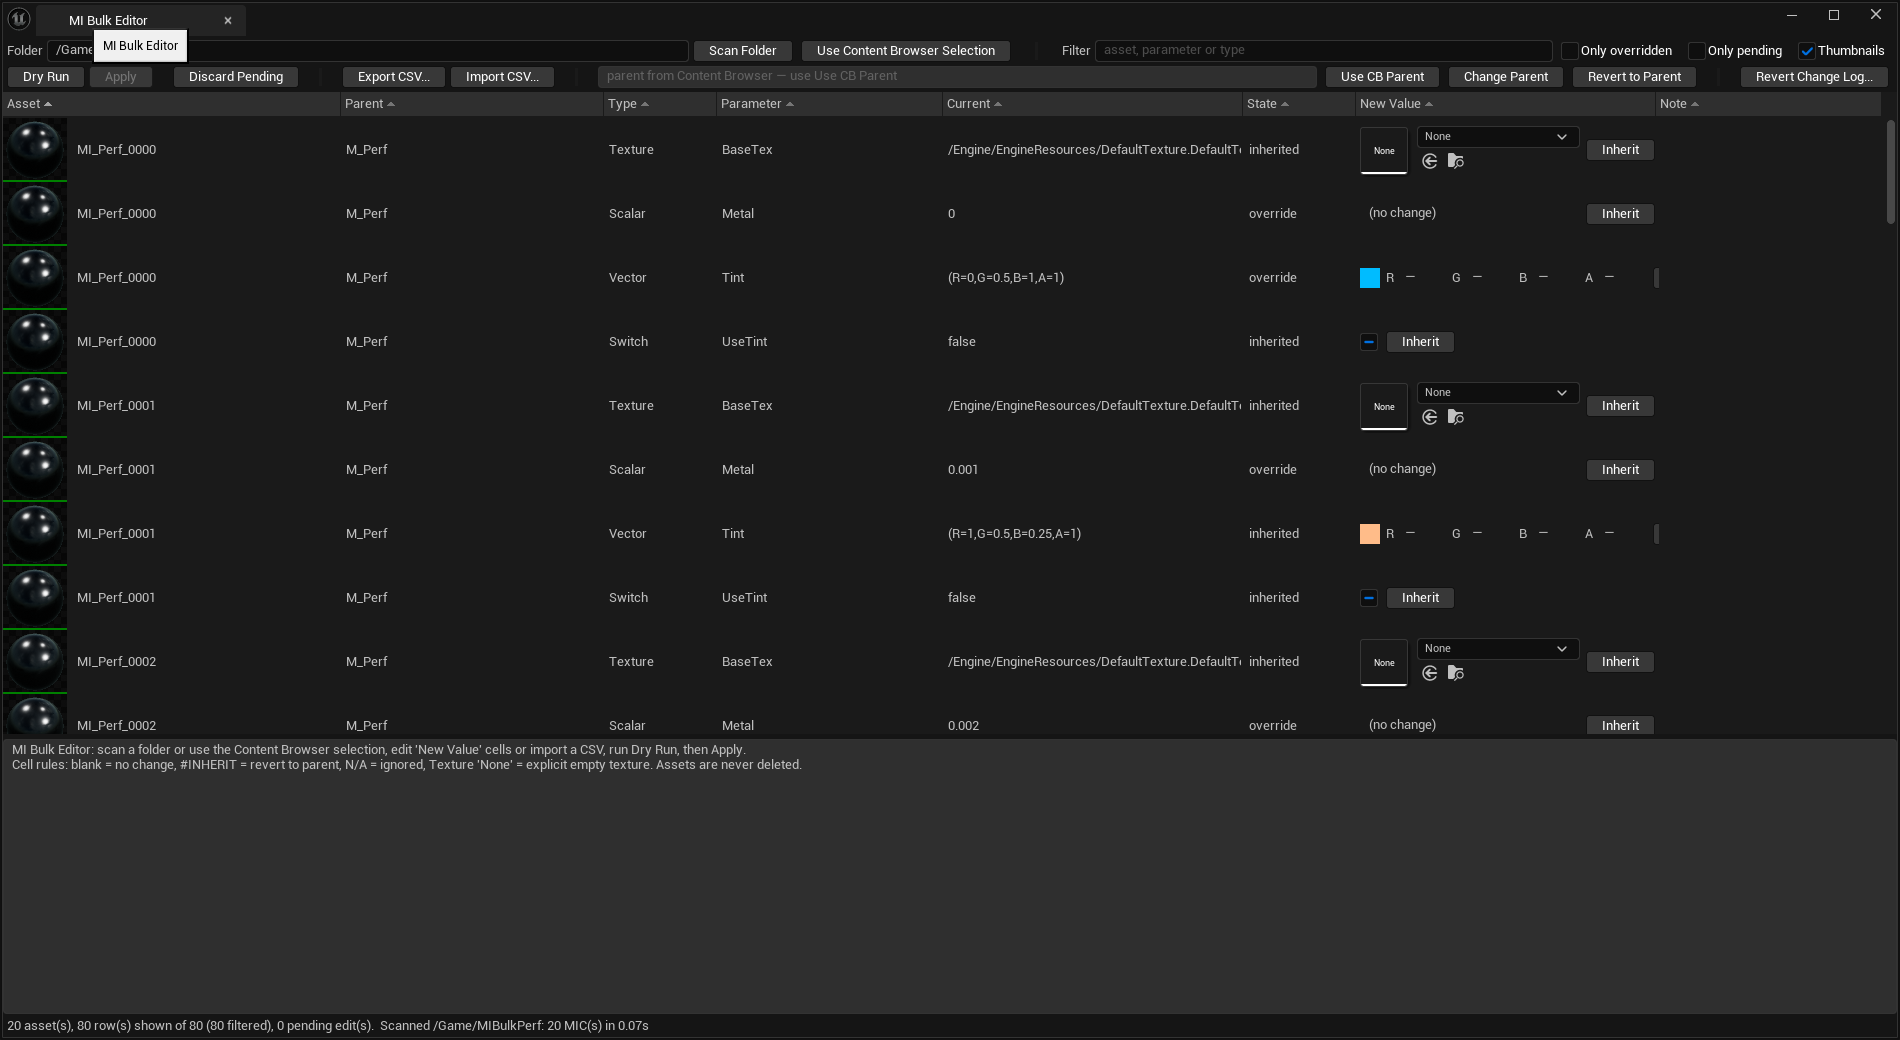
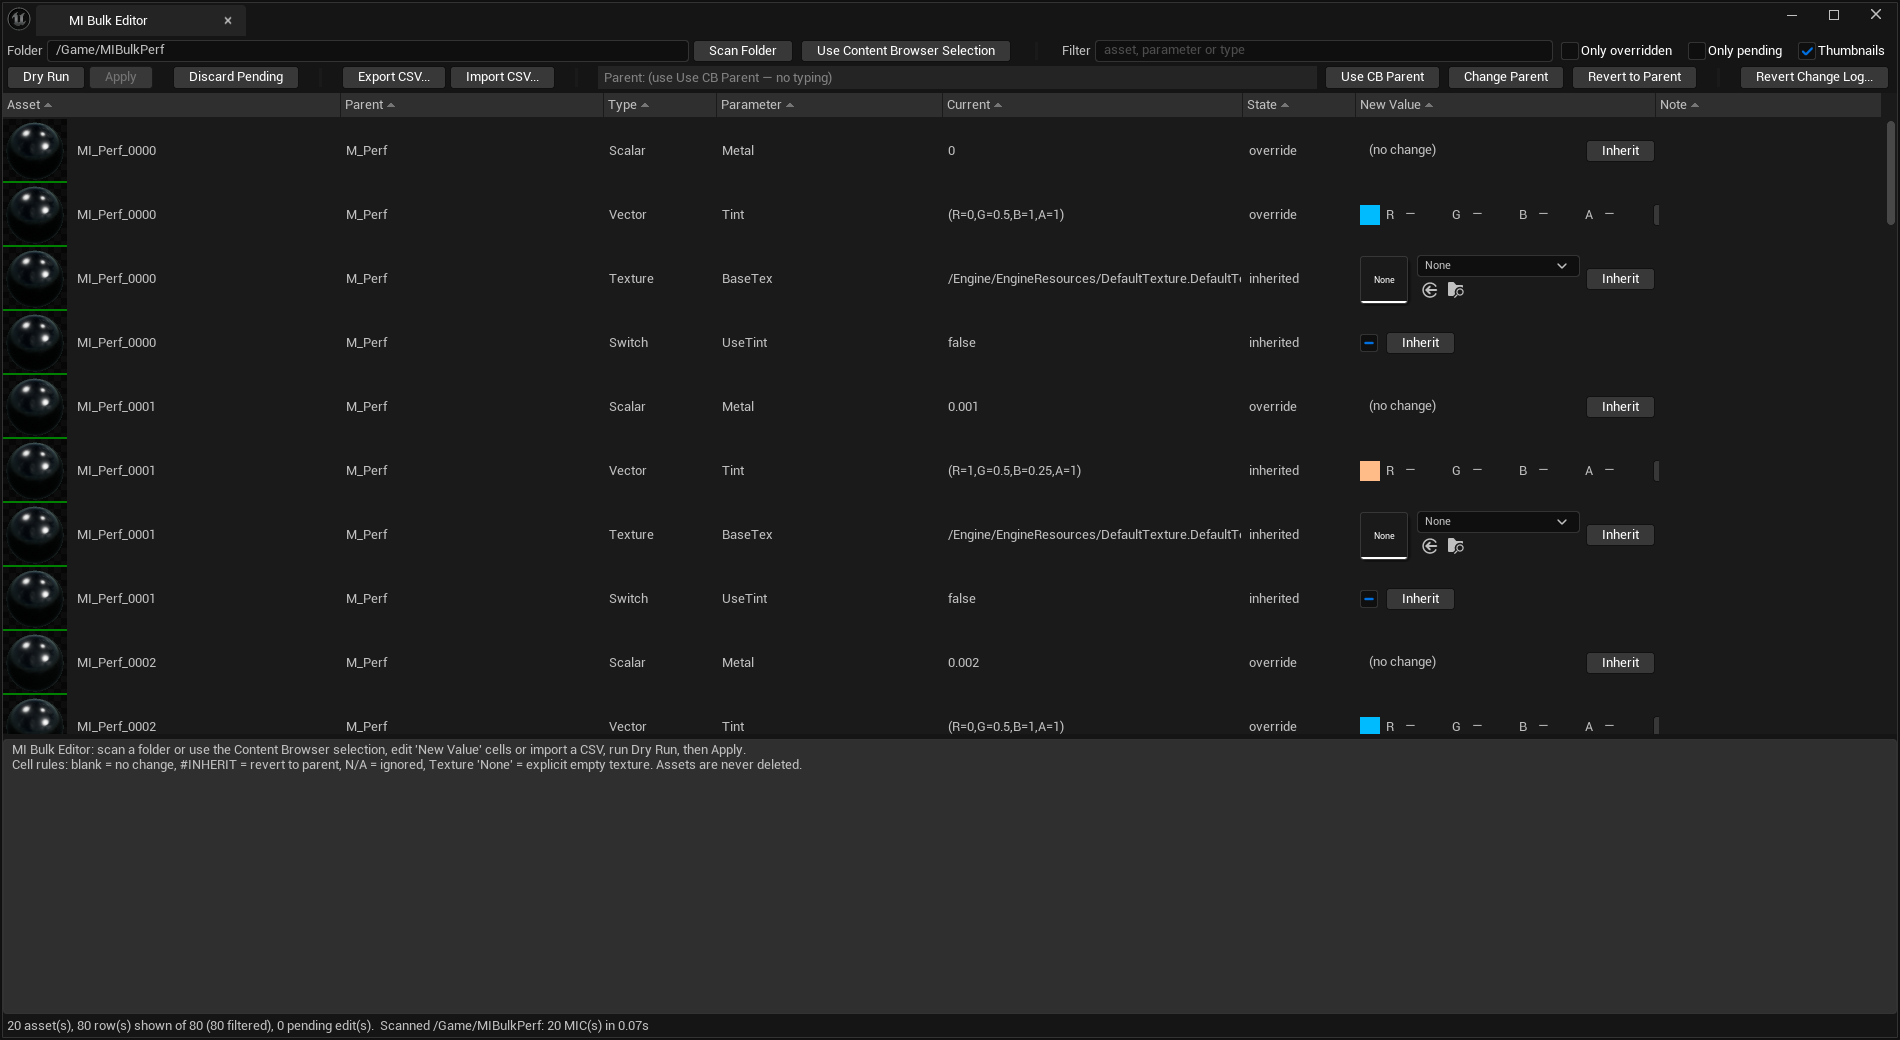
Docs: reshoot 01/05 (2026-11-02) and note Use CB Parent cycle refusal (#4)
Replace the hero and Change Parent screenshots with the 11:43 store reshoot and update the USER_GUIDE footnote. Note that Use CB Parent refuses a self-parent or parent cycle at click time.

diff --git a/CHANGELOG.md b/CHANGELOG.md
@@ -5,7 +5,7 @@
 - New: bulk editing of Scalar, Vector, Texture and Static Switch parameters, including parameters exposed through Material Functions. Static Switch changes rebuild the static permutation so they take effect.
 - New: typed **New Value** editors in the table: checkbox for Static Switches, colour swatch with Unreal's Color Picker and eyedropper for Vectors, drag-to-adjust number box for Scalars, and asset pickers for Textures (drag in from the Content Browser, or None) and Parents. An **Inherit** button on Scalar, Vector, Switch and Texture cells restores the inherited value (same as `#INHERIT`). Editing a selected row applies to every selected row with the same parameter name and type; mixed values show as `Multiple Values`, and the status bar reports `Edited N rows.` (with a `Skipped` count for rows of another type). Pending edits can be undone and redone in the table (Ctrl+Z / Ctrl+Y) before Apply. Scalar values can be negative and typed values are not clamped to the slider range. Hex colours are sRGB; values are stored as linear, and HDR values are kept. CSV rules are unchanged; CSV export contains applied values only.
 - New: optional preview thumbnails in the table (**Thumbnails** toolbar toggle, off by default, remembered per project). When on, **every visible parameter row** shows its own 64 px preview (contiguous or scattered — no shared group thumbnail, no collapse/fold). When off, previews are hidden.
-- New: Change Parent for many Material Instances at once — **Use CB Parent** (select a Material or Material Instance in the Content Browser, then click the toolbar button; no path typing) or the Parent asset picker / **Change Parent**. Pending Parent changes show as `old -> new` until Apply.
+- New: Change Parent for many Material Instances at once — **Use CB Parent** (select a Material or Material Instance in the Content Browser, then click the toolbar button; no path typing) or the Parent asset picker / **Change Parent**. Pending Parent changes show as `old -> new` until Apply. **Use CB Parent** refuses a self-parent or a parent cycle at click time (status message, no pending change).
 - New: **Revert to Parent** from the cell right-click menu, the row right-click menu, and the toolbar.
 - New: **Dry Run** preview. Writes nothing. Cleared overrides are listed separately, with a count.
 - New: **Apply** as one transaction. One Ctrl+Z undoes the whole batch. Every written value is read back and checked.

diff --git a/FAQ.md b/FAQ.md
@@ -50,7 +50,7 @@ Open the Color Picker from the Vector swatch and type the values into the **R**,
 Every Material Instance needs a Parent, and the Parent is not an override, so there is nothing to "inherit". The Parent picker has no None option and no **Inherit** button. To change the Parent, pick another material or Material Instance (see below). In a CSV file, a blank `Parent` cell means no change.
 
 **How do I Change Parent from the Content Browser?**
-Select a **Material** or **Material Instance** in the Content Browser, select the table rows you want to re-parent, then click **Use CB Parent** on the toolbar. You do not type a path. Selected rows get a pending Parent change (`old -> new` in the Parent column) until Dry Run and Apply. If nothing useful is selected in the Content Browser, the button shows a clear message and does not change pending values. You can also use the Parent asset picker or **Change Parent**. See [USER_GUIDE.md](USER_GUIDE.md) section 5.
+Select a **Material** or **Material Instance** in the Content Browser, select the table rows you want to re-parent, then click **Use CB Parent** on the toolbar. You do not type a path. Selected rows get a pending Parent change (`old -> new` in the Parent column) until Dry Run and Apply. If nothing useful is selected in the Content Browser, the button shows a clear message and does not change pending values. **Use CB Parent** also refuses a self-parent or a parent cycle at click time (status message, no pending change). You can also use the Parent asset picker or **Change Parent**. See [USER_GUIDE.md](USER_GUIDE.md) section 5.
 
 **How do preview thumbnails work?**
 Turn on **Thumbnails** on the toolbar. Every visible parameter row shows its own 64 px preview — there is no shared group thumbnail and no collapse/fold control, whether rows for the same Material Instance are contiguous or scattered by sorting. Turn **Thumbnails** off to hide the previews. See [USER_GUIDE.md](USER_GUIDE.md) section 2.

diff --git a/USER_GUIDE.md b/USER_GUIDE.md
@@ -217,4 +217,4 @@ You can restore from a log after restarting the editor (the logs live on disk un
 
 ---
 
-*Screenshots: store gallery 01/02/05/06/08/09. **01 / 05** reshot 2026-11-01 ~18:43 Asia/Shanghai from `host_5.8_thumb_group` DLL 18:13 (per-row thumbs, no fold; Use CB Parent + Parent read-only). 02 from `host_5.8_d1b`; 08 from `host_5.8_d1` (multi-select).*
+*Screenshots: store gallery 01/02/05/06/08/09. **01 / 05** reshot 2026-11-02 ~11:43 Asia/Shanghai from `host_5.8_thumb_group` DLL 11:18 (per-row thumbs on every parameter row, no fold; 05: Thumbnails OFF, Parent read-only / no typed path, Use CB Parent pending `M_Perf -> M_Perf_Alt`). 02 from `host_5.8_d1b`; 08 from `host_5.8_d1` (multi-select).*
